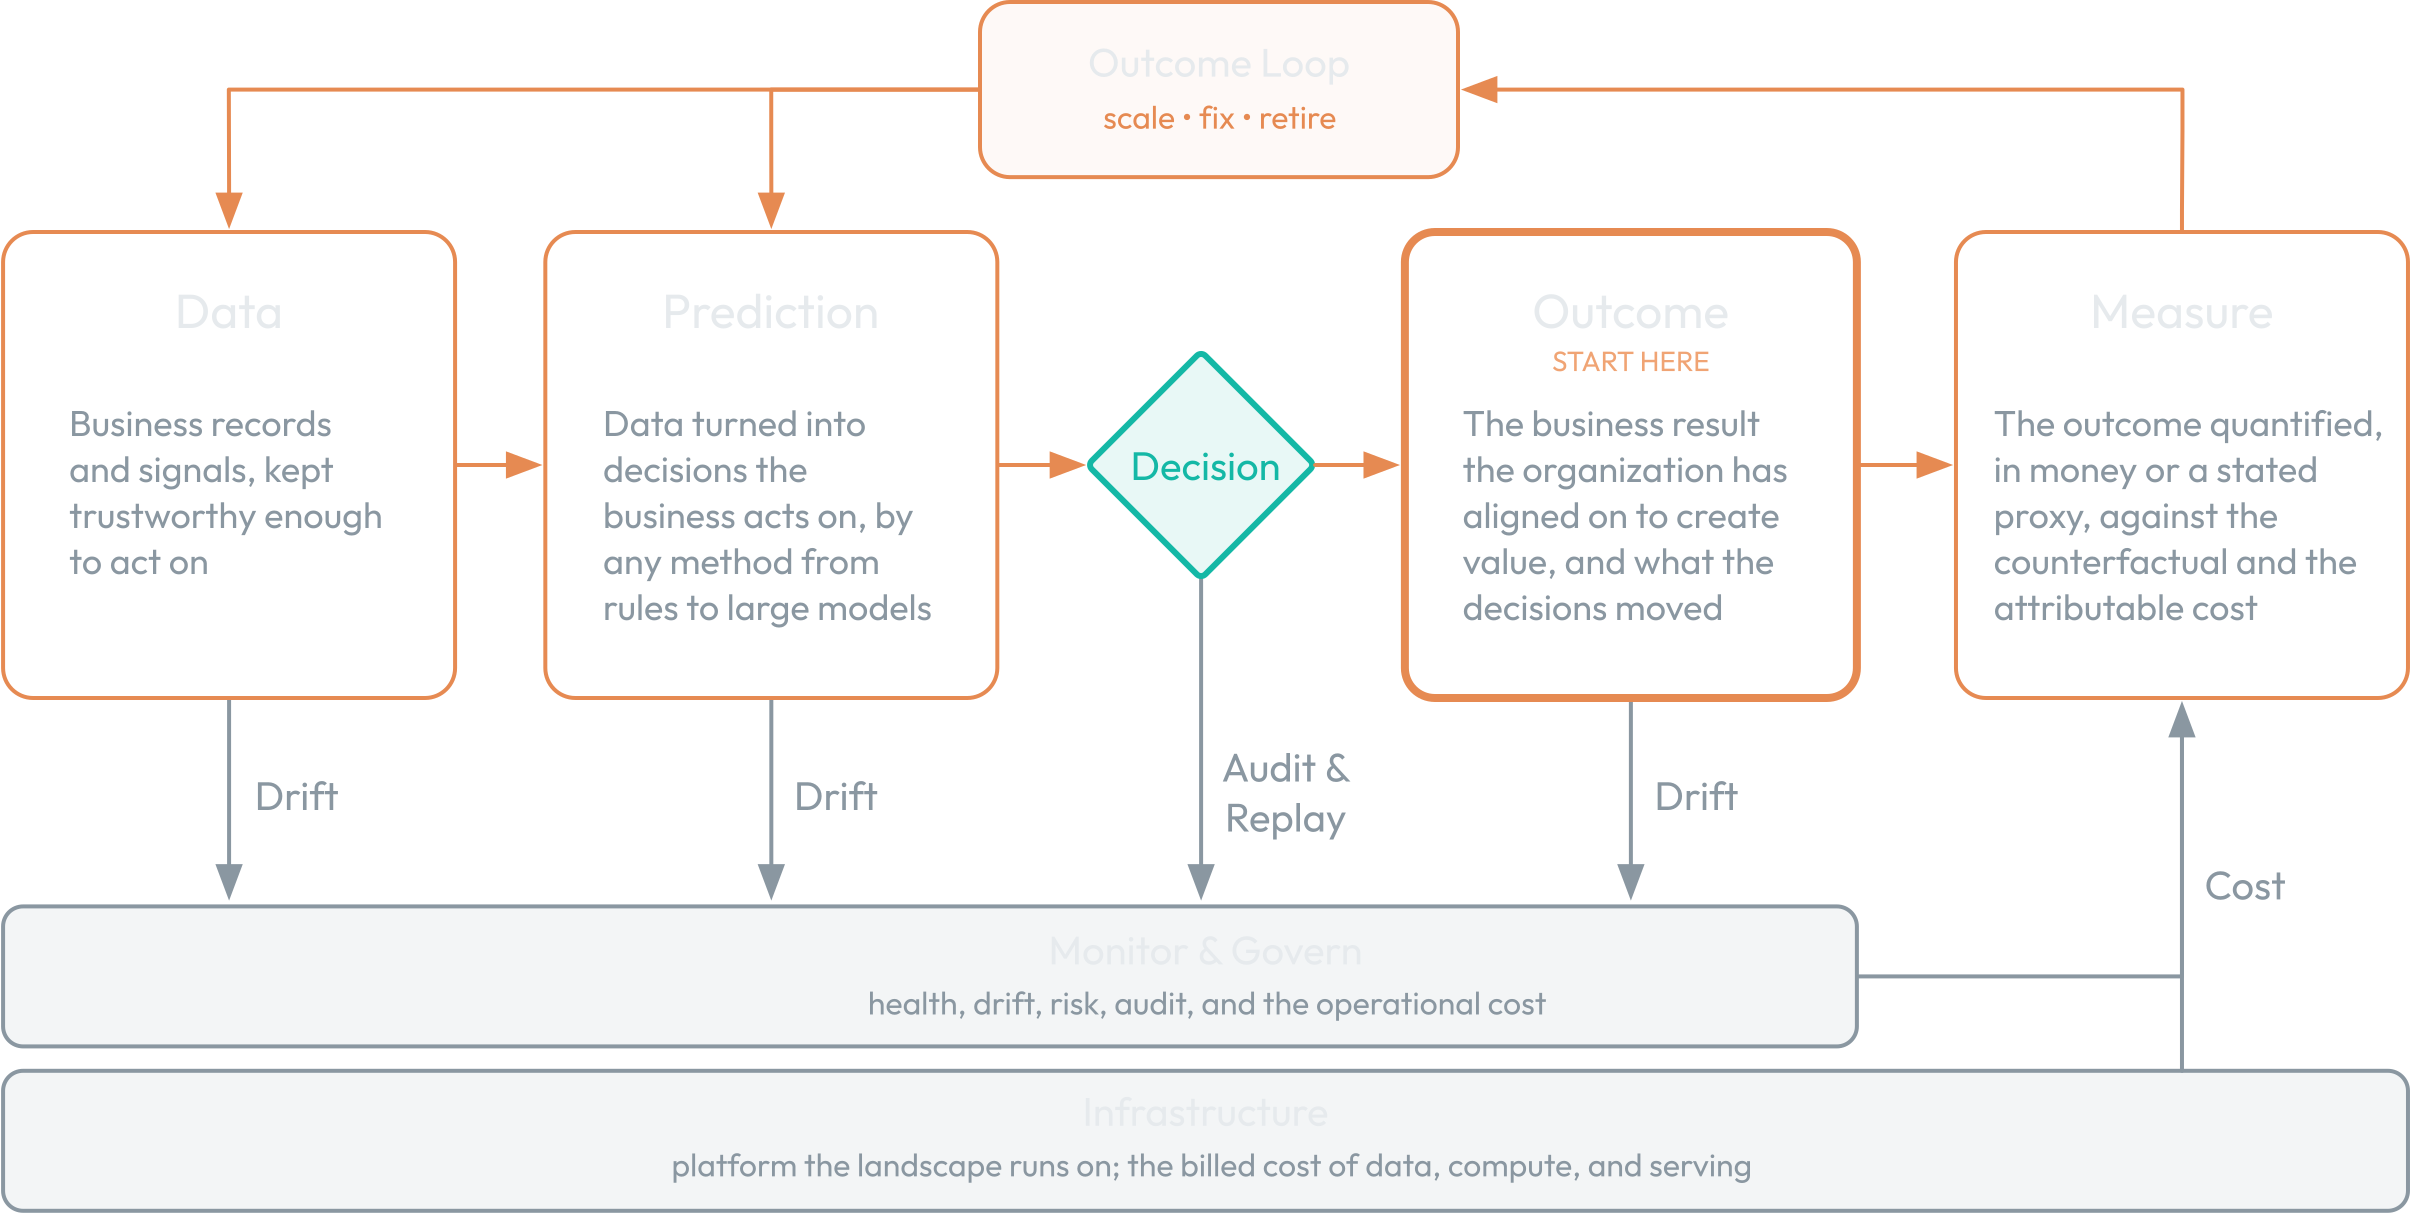
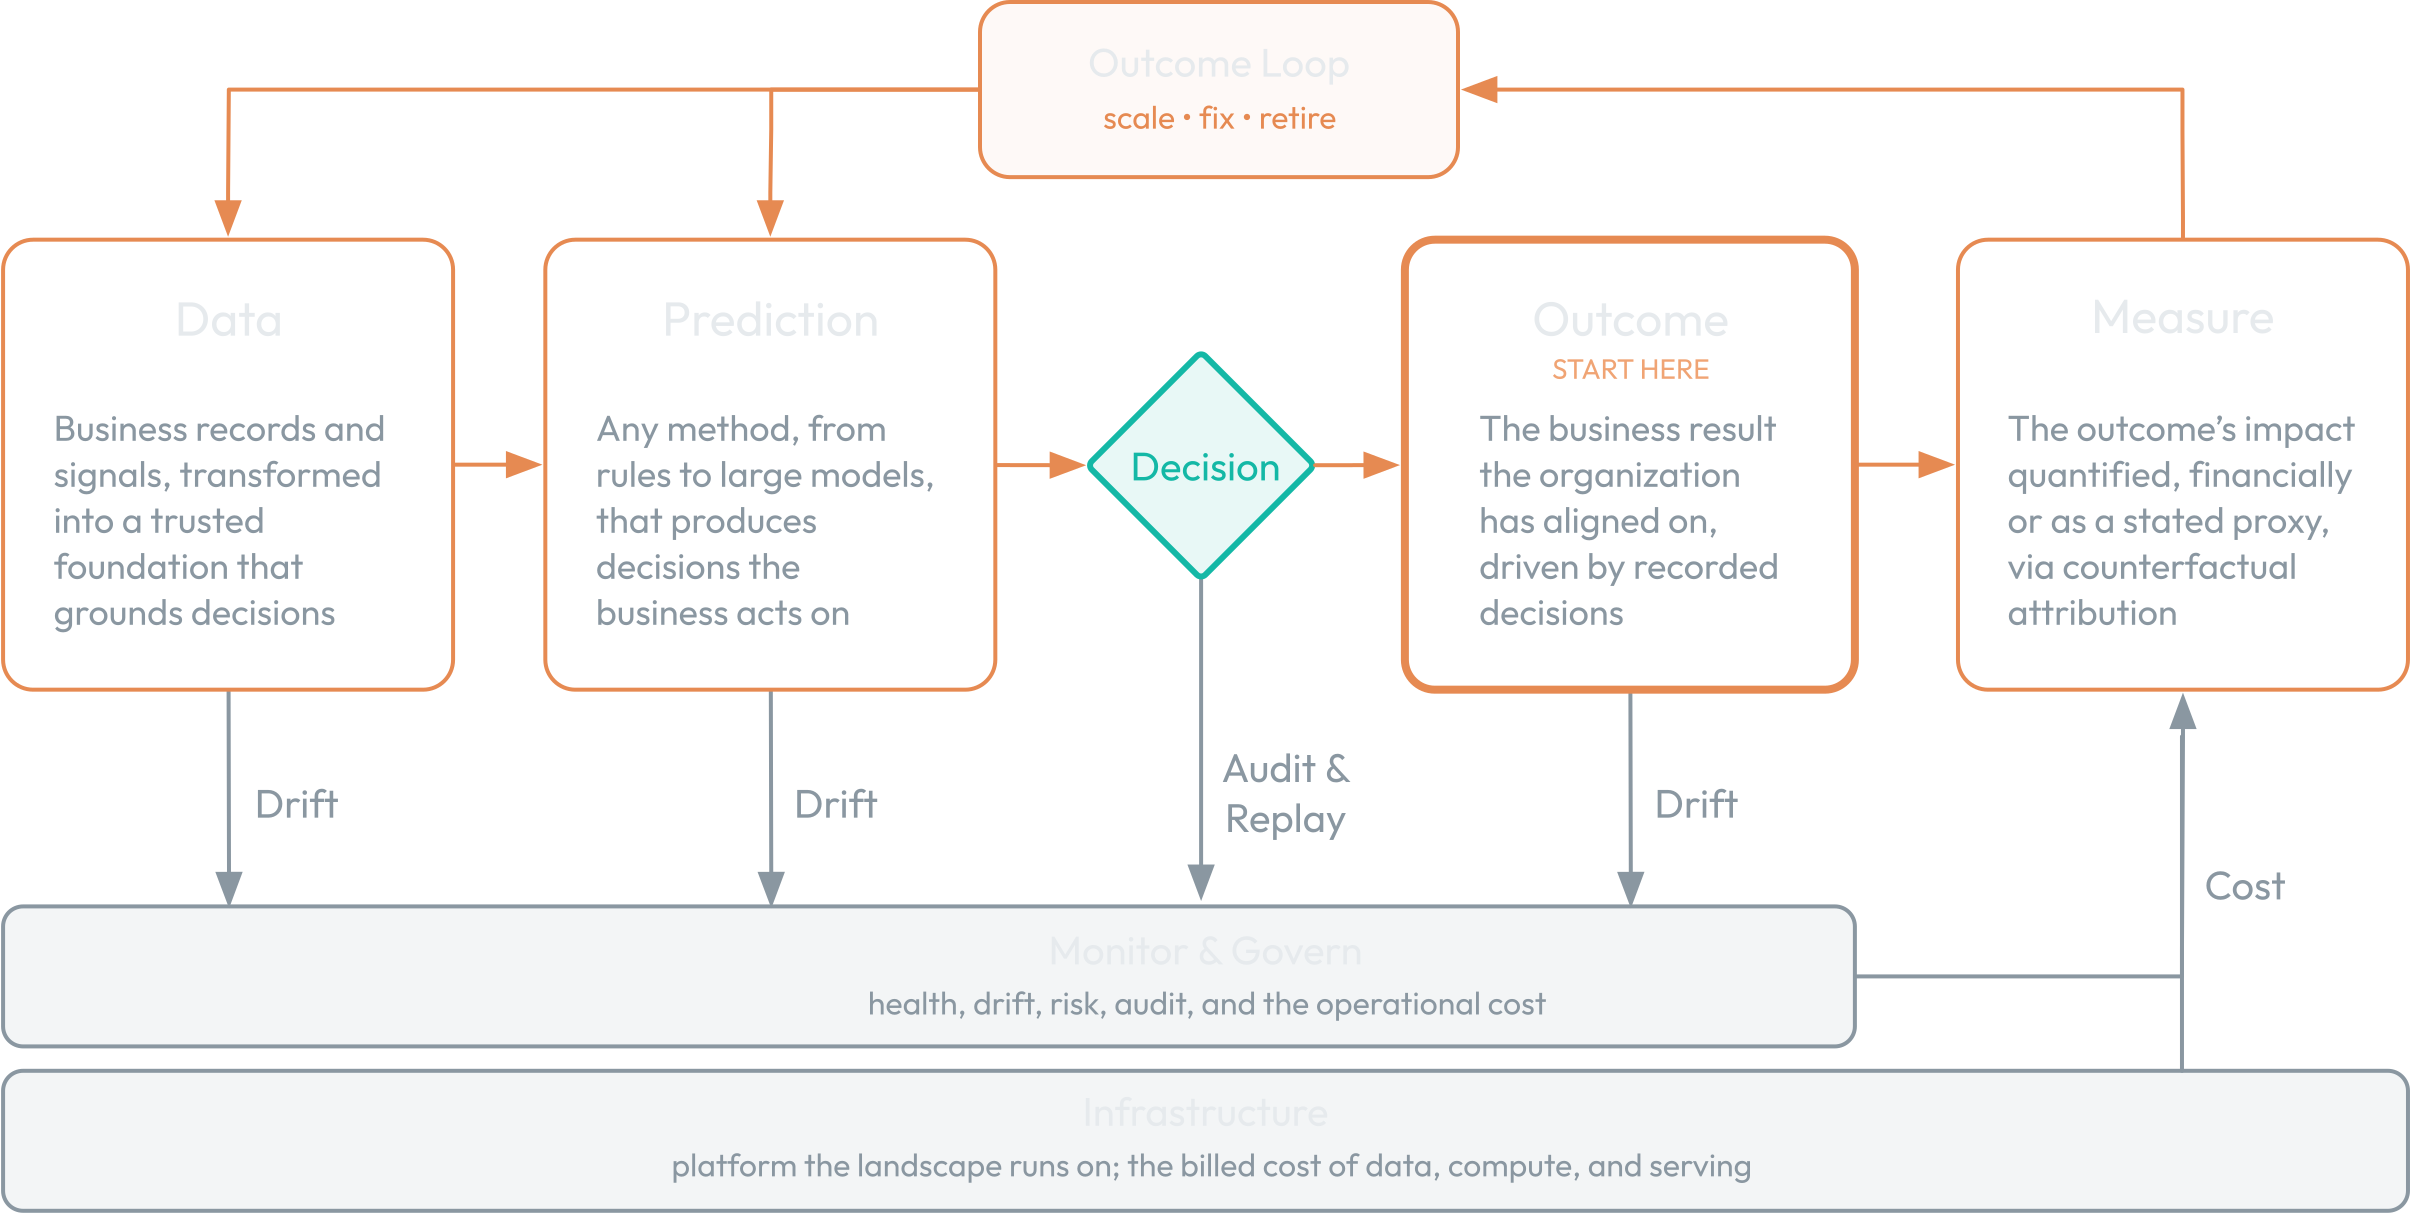
docs(readme): final region text in the landscape diagram; add notes.md
Data grounds decisions; Prediction is any method from rules to large models that
produces decisions the business acts on; Outcome is the aligned result driven by
recorded decisions; Measure is the outcome's impact quantified via counterfactual
attribution. Dark SVG and both PNGs rebuilt from the source.

notes.md holds dated working insights, tagged by region and intended home; first
entry is the Data observation for the Data position essay.

diff --git a/notes.md b/notes.md
@@ -1,0 +1,19 @@
+# Notes
+
+Working insights captured while the framework is built out. Each entry is dated, names the
+region it belongs to, and says where it should land: the spec, an essay, DecisionLedger, the
+measurement library, or a team handbook. Entries are raw and may be wrong. Nothing here is
+normative until it reaches `SPEC.md`. Newest first.
+
+## 2026-10-31 · Data · Data position essay
+
+A model does little more than encode business rules in an algorithm or expose patterns the
+data already holds. The value a decision system delivers is latent in the Data region before
+any model exists; Prediction surfaces it and turns it into a decision. Two consequences.
+First, the work of transforming records and signals into an analytical mart or feature
+store, the factory and store split, is where most of the leverage is, and it is the part
+most teams underinvest in because it looks like plumbing. Second, a weak Data region cannot
+be rescued downstream: no method, from a rules engine to a large model, can expose a pattern
+that was never captured or was captured untrustworthily. This is why the Data box in the
+landscape says "transformed into the foundation that drives decisions" rather than naming a
+pipeline.

diff --git a/CHANGELOG.md b/CHANGELOG.md
@@ -4,6 +4,19 @@ All notable changes to the DPOM specification are recorded here. The format
 follows [Keep a Changelog](https://keepachangelog.com/en/1.1.0/), and versions
 follow [Semantic Versioning](https://semver.org/).
 
+## [Unreleased]
+
+### Changed
+
+- README diagram: final text for the four region boxes (Data grounds decisions, Prediction is
+  any method from rules to large models, Outcome is the aligned result driven by recorded
+  decisions, Measure is the impact quantified via counterfactual attribution).
+
+### Added
+
+- `notes.md`: dated working insights captured while the framework is built out, each tagged
+  with its region and intended home. Not normative.
+
 ## [0.2.1] - 2026-10-30
 
 ### Added
